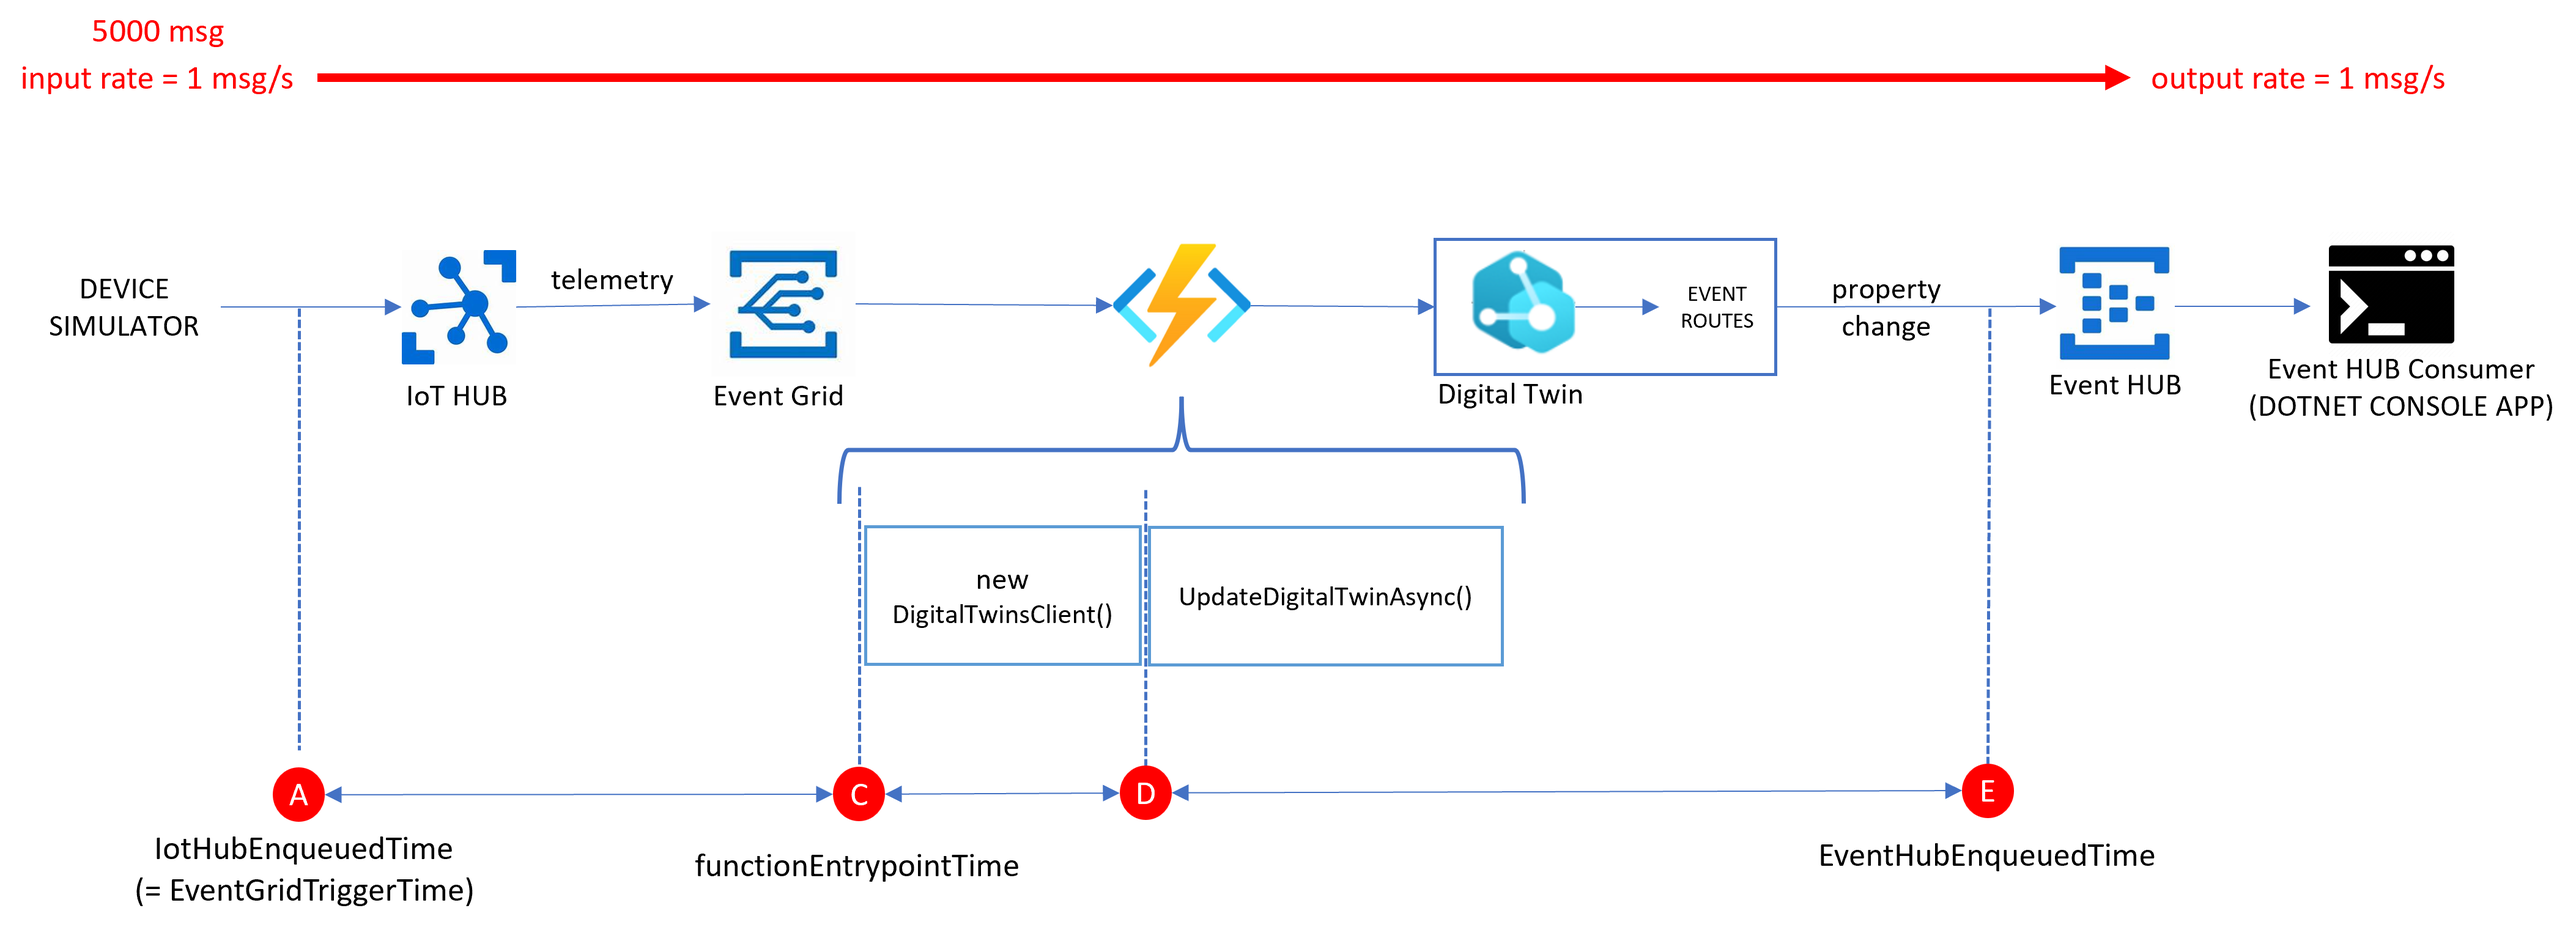
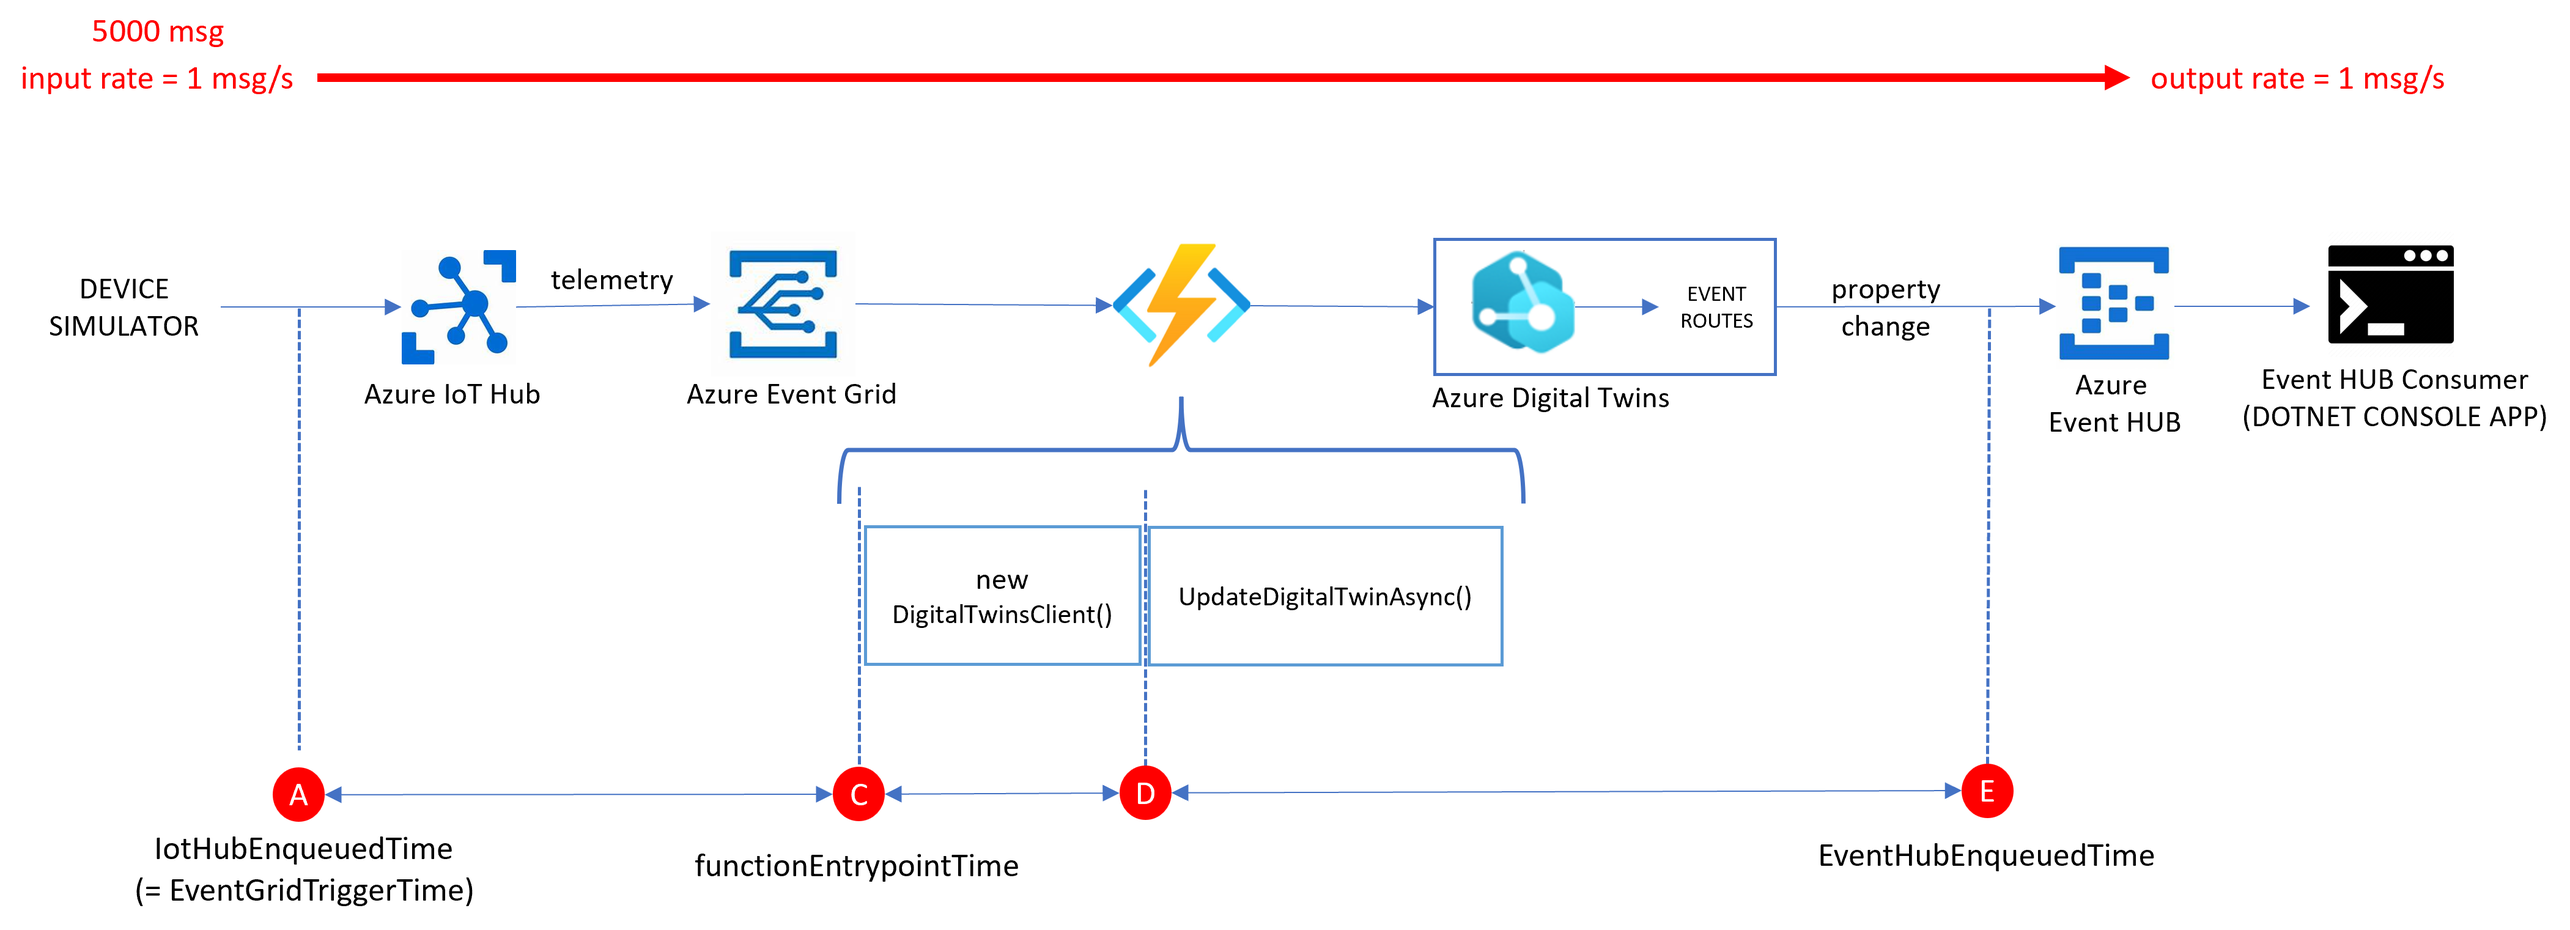
updated

diff --git a/README.md b/README.md
@@ -1,5 +1,5 @@
 # Overview
-Some notes and tools to measure the latency of events flowing along a sample Azure Digital Twin pipeline:
+Some notes and tools to measure the latency of events flowing along a sample Azure Digital Twins pipeline:
 ![](./images/pipeline.png)
 
 **DISCLAIMER:** *the performance figures shared in this article may be inaccurate and not applicable to your case. Do your own tests and assessment, using the methodology and tools described here if you will.*
